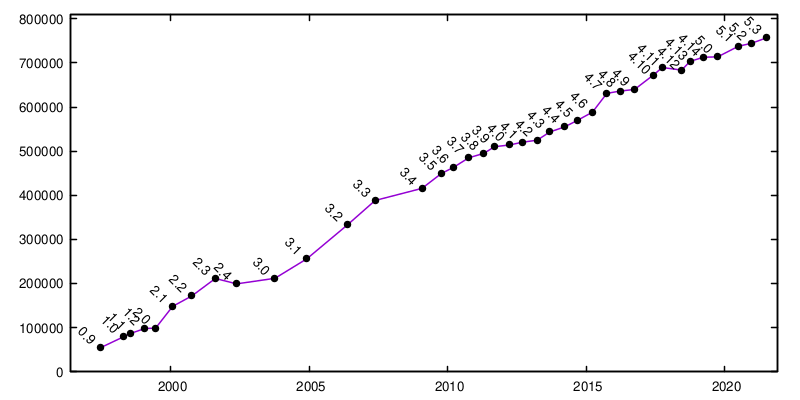
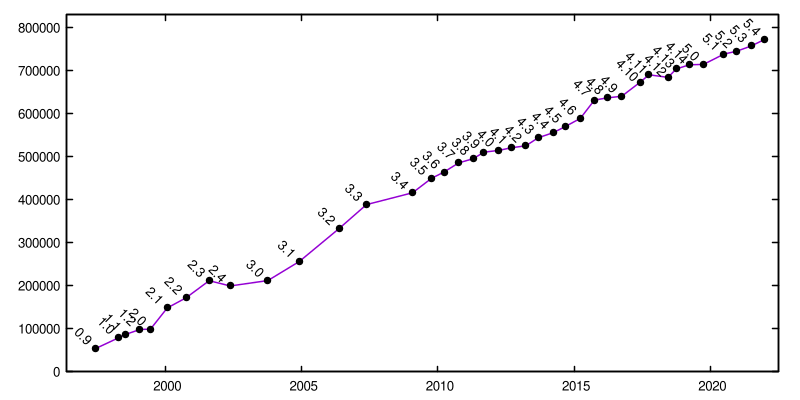
Publish 5.4-beta1

diff --git a/_posts/2021-12-17-cgal54-beta1.md b/_posts/2021-12-17-cgal54-beta1.md
@@ -1,0 +1,107 @@
+---
+layout: post
+title: "CGAL 5.4 beta1 released"
+description: "CGAL 5.4 beta1"
+category:
+tags: ["active-beta-release"]
+---
+{% include JB/setup %}
+
+<i class="glyphicon glyphicon-download"></i>
+<a href="https://github.com/CGAL/cgal/releases/tag/v5.4-beta1">Download CGAL-5.4-beta1</a>
+
+<i class="glyphicon glyphicon-book"></i>
+<a href="https://doc.cgal.org/5.4/Manual/index.html">CGAL-5.4-beta1 documentation</a>
+
+<p>CGAL 5.4 offers the following improvements and new functionality over
+<a href="../../../../2021/07/06/cgal53">CGAL 5.3</a>:</p>
+
+<div class="product-detail-info" markdown="1">
+
+## Changelog
+
+### [General changes](https://doc.cgal.org/5.4/Manual/general_intro.html)
+
+-   Added the cmake target `CGAL::CGAL_Basic_viewer` to ease the compilation of programs using the basic viewer-based function `CGAL::draw()`. This target will define the macro and link with `CGAL_Qt5` target when linked with it.
+
+-   The kernel providing exact constructions and exact predicates ([`CGAL::Exact_predicates_exact_constructions_kernel`](https://doc.cgal.org/5.4/Kernel_23/classCGAL_1_1Exact__predicates__exact__constructions__kernel.html)) is now thread-safe. See changes in `2D and 3D Linear Geometry Kernel` for more details.
+
+### [Shape Regularization](https://doc.cgal.org/5.4/Manual/packages.html#PkgShapeRegularization) (new package)
+
+-   This package enables to regularize a set of segments and open or closed contours in 2D and a set of planes in 3D such that all input objects are rotated and aligned with respect to the user-specified conditions. In addition, it provides a global regularization framework that can be adjusted for the user needs and any type of geometric objects.
+
+### [Weights](https://doc.cgal.org/5.4/Manual/packages.html#PkgWeights) (new package)
+
+-   This package provides a simple and unified interface to different types of weights. In particular, it groups all weights into three category: analytic weights including all basic weights which can be computed analytically for a query point with respect to its local neighbors in 2D and 3D; barycentric weights, including all weights which can be computed for a query point with respect to the vertices of a planar polygon; and weighting regions, including all weights which are used to balance other weights.
+
+### [2D Generalized Barycentric Coordinates](https://doc.cgal.org/5.4/Manual/packages.html#PkgBarycentricCoordinates2) (major changes)
+
+-   **Breaking change**: The headers `Segment_coordinates_2.h` and `Triangle_coordinates_2.h` are renamed to `segment_coordinates_2.h` and `triangle_coordinates_2.h`.
+-   The classes [`Segment_coordinates_2`](https://doc.cgal.org/5.4/Barycentric_coordinates_2/classCGAL_1_1Barycentric__coordinates_1_1Segment__coordinates__2.html) and [`Triangle_coordinates_2`](https://doc.cgal.org/5.4/Barycentric_coordinates_2/classCGAL_1_1Barycentric__coordinates_1_1Triangle__coordinates__2.html) are deprecated. The free functions [`compute_segment_coordinates_2()`](https://doc.cgal.org/5.4/Barycentric_coordinates_2/classCGAL_1_1Barycentric__coordinates_1_1Segment__coordinates__2.html#a134d363dccaeecb5621fa608fac76eaf) and [`compute_triangle_coordinates_2()`](https://doc.cgal.org/5.4/Barycentric_coordinates_2/classCGAL_1_1Barycentric__coordinates_1_1Triangle__coordinates__2.html#a958fee3ad9613d7bfa9d7a976aa3548f) are deprecated as well. Instead, the free functions [`segment_coordinates_2()`](https://doc.cgal.org/5.4/Barycentric_coordinates_2/group__PkgBarycentricCoordinates2RefFunctions.html#gab856ca68d37f58e6cdf74c8aac6f4245) and [`triangle_coordinates_2()`](https://doc.cgal.org/5.4/Barycentric_coordinates_2/group__PkgBarycentricCoordinates2RefFunctions.html#gaa378786f8996dbcefe7923ebb711e4dd) should be used.
+-   The enums [`Query_point_location`](https://doc.cgal.org/5.4/Barycentric_coordinates_2/namespaceCGAL_1_1Barycentric__coordinates.html#aedeeb072a2024053a016afd15e591331) and [`Type_of_algorithm`](https://doc.cgal.org/5.4/Barycentric_coordinates_2/namespaceCGAL_1_1Barycentric__coordinates.html#a5e5682512438422f23d6080edc49c05b) are deprecated. Instead, the enum [`Computation_policy_2`](https://doc.cgal.org/5.4/Barycentric_coordinates_2/namespaceCGAL_1_1Barycentric__coordinates.html#a478bbcec416216b2274ee4b4e97b0e6c) should be used.
+-   The classes [`Wachspress_2`](https://doc.cgal.org/5.4/Barycentric_coordinates_2/classCGAL_1_1Barycentric__coordinates_1_1Wachspress__2.html), [`Discrete_harmonic_2`](https://doc.cgal.org/5.4/Barycentric_coordinates_2/classCGAL_1_1Barycentric__coordinates_1_1Discrete__harmonic__2.html), [`Mean_value_2`](https://doc.cgal.org/5.4/Barycentric_coordinates_2/classCGAL_1_1Barycentric__coordinates_1_1Mean__value__2.html), and [`Generalized_barycentric_coordinates_2`](https://doc.cgal.org/5.4/Barycentric_coordinates_2/classCGAL_1_1Barycentric__coordinates_1_1Generalized__barycentric__coordinates__2.html) are deprecated. As consequence, the concept [`BarycentricCoordinates_2`](https://doc.cgal.org/5.4/Barycentric_coordinates_2/classCGAL_1_1Barycentric__coordinates_1_1BarycentricCoordinates__2.html) is deprecated as well. Instead, the classes [`Wachspress_coordinates_2`](https://doc.cgal.org/5.4/Barycentric_coordinates_2/classCGAL_1_1Barycentric__coordinates_1_1Wachspress__coordinates__2.html), [`Discrete_harmonic_coordinates_2`](https://doc.cgal.org/5.4/Barycentric_coordinates_2/classCGAL_1_1Barycentric__coordinates_1_1Discrete__harmonic__coordinates__2.html), and [`Mean_value_coordinates_2`](https://doc.cgal.org/5.4/Barycentric_coordinates_2/classCGAL_1_1Barycentric__coordinates_1_1Mean__value__coordinates__2.html) should be used.
+-   Added the class [`Harmonic_coordinates_2`](https://doc.cgal.org/5.4/Barycentric_coordinates_2/classCGAL_1_1Barycentric__coordinates_1_1Harmonic__coordinates__2.html) to compute approximate harmonic coordinates in 2D. These coordinates satisfy all properties of barycentric coordinates inside any simple polygon.
+-   Added a new concept [`DiscretizedDomain_2`](https://doc.cgal.org/5.4/Barycentric_coordinates_2/classCGAL_1_1Barycentric__coordinates_1_1DiscretizedDomain__2.html) and a model of this concept called [`Delaunay_domain_2`](https://doc.cgal.org/5.4/Barycentric_coordinates_2/classCGAL_1_1Barycentric__coordinates_1_1Delaunay__domain__2.html), which is based on the [Mesh 2](https://doc.cgal.org/5.4/Manual/packages.html#PkgMesh2) package. A model of this concept is required to use [`Harmonic_coordinates_2`](https://doc.cgal.org/5.4/Barycentric_coordinates_2/classCGAL_1_1Barycentric__coordinates_1_1Harmonic__coordinates__2.html).
+-   Added free functions to compute Wachspress, discrete harmonic, and mean value coordinates.
+-   All free functions and classes are now using ranges and property maps.
+
+### [2D and 3D Linear Geometry Kernel](https://doc.cgal.org/5.4/Manual/packages.html#PkgKernel23)
+
+-   Most operations on [`CGAL::Exact_predicates_exact_constructions_kernel`](https://doc.cgal.org/5.4/Kernel_23/classCGAL_1_1Exact__predicates__exact__constructions__kernel.html) objects are now thread-safe if [`CGAL::Exact_rational`](https://doc.cgal.org/5.4/Number_types/group__nt__cgal.html#ga0849ff44771b19582218ebdfa5614f64) is [`mpq_class`](https://doc.cgal.org/5.3/Number_types/classmpq__class.html) (from `GMPXX`), `boost::multiprecision::mpq_rational` or [`CGAL::Quotient<CGAL::MP_Float>`](https://doc.cgal.org/5.3/Number_types/classCGAL_1_1MP__Float.html). The objects are not atomic though, so the usual restrictions on avoiding race conditions apply. For users who do not use threads, this can be disabled with `CGAL_HAS_NO_THREADS`.
+
+-   Added documentation for the class [`Projection_traits_3`](https://doc.cgal.org/5.4/Kernel_23/classCGAL_1_1Projection__traits__3.html), which enables the use of 2D algorithms on the projections of 3D data onto an arbitrary plane.
+
+-   Added `construct_centroid_2_object()` and `compute_determinant_2_object()` in [`Projection_traits_xy_3`](https://doc.cgal.org/5.4/Kernel_23/classCGAL_1_1Projection__traits__xy__3.html), [`Projection_traits_xz_3`](https://doc.cgal.org/5.4/Kernel_23/classCGAL_1_1Projection__traits__xz__3.html), and [`Projection_traits_yz_3`](https://doc.cgal.org/5.4/Kernel_23/classCGAL_1_1Projection__traits__yz__3.html) classes.
+
+-   Added the functor [`NonZeroCoordinateIndex_3`](https://doc.cgal.org/5.4/Kernel_23/classKernel_1_1NonZeroCoordinateIndex__3.html) to the concept [`Kernel`](https://doc.cgal.org/5.4/Kernel_23/classKernel.html) with `int operator()(Vector_3)` which returns the index of any coordinate of the vector different from zero, or `-1`.
+
+### [dD Kernel](https://doc.cgal.org/5.4/Manual/packages.html#PkgKernelD)
+
+-   Most operations on [`Epeck_d`](https://doc.cgal.org/5.4/Kernel_d/structCGAL_1_1Epeck__d.html) objects are now thread-safe, see 2D and 3D Linear Geometry Kernel for details.
+
+### [2D Arrangements](https://doc.cgal.org/5.4/Manual/packages.html#PkgArrangementOnSurface2)
+
+-   **Breaking Change:** The traits function objects `Compare_x_at_limit_2` and `Compare_x_near_limit_2` are renamed to `Compare_x_on_boundary_2` and `Compare_x_near_boundary_2`, respectively.
+
+-   A [new hierarchy of traits concepts](https://doc.cgal.org/5.4/Arrangement_on_surface_2/group__PkgArrangementOnSurface2Concepts.html) has been introduced. It captures all the valid combinations of boundary conditions for the 4 boundary sides of the parameter space. The 4 boundaries are Bottom, Top, Left, and Right. Each boundary side can be either contracted, identified, close, open, or oblivious. Not all possible combinations are valid. If one side is identified then the other must be as well. Two adjacent sides cannot be contracted.
+
+-   A new geometric traits, [`Arr_geodesic_arc_on_sphere_traits_2`](https://doc.cgal.org/5.4/Arrangement_on_surface_2/classCGAL_1_1Arr__geodesic__arc__on__sphere__traits__2.html) has been introduced. It handles arcs of great circles embedded on the unit sphere.
+
+### [2D Regularized Boolean Set-Operations](https://doc.cgal.org/5.4/Manual/packages.html#PkgBooleanSetOperations2)
+
+-   Added an extra parameter (`UsePolylines`) to all free functions ( [`complement()`](https://doc.cgal.org/5.4/Boolean_set_operations_2/group__boolean__complement.html), [`do_intersect()`](https://doc.cgal.org/5.4/Boolean_set_operations_2/group__boolean__do__intersect.html), [`intersection()`](https://doc.cgal.org/5.4/Boolean_set_operations_2/group__boolean__intersection.html), [`join()`](https://doc.cgal.org/5.4/Boolean_set_operations_2/group__boolean__join.html), [`difference()`](https://doc.cgal.org/5.4/Boolean_set_operations_2/group__boolean__difference.html), [`symmetric_difference()`](https://doc.cgal.org/5.4/Boolean_set_operations_2/group__boolean__symmetric__difference.html), and [`oriented_side`](https://doc.cgal.org/5.4/Boolean_set_operations_2/group__boolean__oriented__side.html)) to control whether to use `Arr_polyline_traits_2` as default traits. It is the new default as it provides better performances in general.
+
+### [3D Mesh Generation](https://doc.cgal.org/5.4/Manual/packages.html#PkgMesh3)
+
+-   Added support of weighted images for an improved quality of meshes generated from labeled images, along with a function [`CGAL::Mesh_3::generate_label_weights()`](https://doc.cgal.org/5.4/Mesh_3/namespaceCGAL_1_1Mesh__3.html#ae5914bf77180ff8948c08046154ee727) to generate the weights.
+
+### [Polygon Mesh Processing](https://doc.cgal.org/5.4/Manual/packages.html#PkgPolygonMeshProcessing)
+
+-   Added the function [`CGAL::Polygon_mesh_processing::match_faces()`](https://doc.cgal.org/5.4/Polygon_mesh_processing/group__measure__grp.html#ga10f7cd81645bafe936ac5eb4e58e67ef), which, given two polygon meshes, identifies their common faces as well as faces present in only either of them.
+
+-   Added the functions: [`CGAL::Polygon_mesh_processing::bounded_error_Hausdorff_distance()`](https://doc.cgal.org/5.4/Polygon_mesh_processing/group__PMP__distance__grp.html#ga6d4ecea831c33ac10eec42b5021fc183) that computes an estimate of the one-sided Hausdorff distance between two triangle meshes which is bounded by a user-specified error bound; [`CGAL::Polygon_mesh_processing::bounded_error_symmetric_Hausdorff_distance()`](https://doc.cgal.org/5.4/Polygon_mesh_processing/group__PMP__distance__grp.html#ga9a7a682b5d9523135c8502e72117dffd) that computes an estimate of the symmetric Hausdorff distance bounded by a user-specified error bound; and [`CGAL::Polygon_mesh_processing::is_Hausdorff_distance_larger()`](https://doc.cgal.org/5.4/Polygon_mesh_processing/group__PMP__distance__grp.html#gab19e751107025a443e86baa9763aebf3) that returns `true` if the bounded-error Hausdorff distance between two meshes is larger than the user-specified max distance.
+
+-   Added the functions [`CGAL::Polygon_mesh_processing::squared_edge_length()`](https://doc.cgal.org/5.4/Polygon_mesh_processing/group__measure__grp.html#ga30fa03722cd7aa599f6dcb115f54fec5) and [`CGAL::Polygon_mesh_processing::squared_face_area()`](https://doc.cgal.org/5.4/Polygon_mesh_processing/group__measure__grp.html#ga6eda3738815fd678df225f79ccfc3e03), which, compared to [`CGAL::Polygon_mesh_processing::edge_length()`](https://doc.cgal.org/5.4/Polygon_mesh_processing/group__measure__grp.html#gae1674775d9fecada7f25710f425cff3a) and [`CGAL::Polygon_mesh_processing::face_area()`](https://doc.cgal.org/5.4/Polygon_mesh_processing/group__measure__grp.html#ga6a1d7a825c09490b1e6613295343482b), enable avoiding square-root operations.
+
+-   Added more functions in the [visitor of the corefinement based methods](https://doc.cgal.org/5.4/Polygon_mesh_processing/classPMPCorefinementVisitor.html) to track all vertex creations.
+
+-   Added an option to [`CGAL::Polygon_mesh_processing::self_intersections()`](https://doc.cgal.org/5.4/Polygon_mesh_processing/group__PMP__intersection__grp.html#gaf19c80ec12cbff7ebe9e69453f1d40b8) to report only a limited number of intersections (`maximum_number()`).
+
+### [The Heat Method](https://doc.cgal.org/5.4/Manual/packages.html#PkgHeatMethod)
+
+-   **Breaking change**: Added the functor `Compute_squared_length_3` providing `operator(const Vector_3& v)`, which computes the squared length of `v`, to the [`HeatMethodTraits_3`](https://doc.cgal.org/5.4/Heat_method_3/classHeatMethodTraits__3.html) concept.
+
+### [Point Set Processing](https://doc.cgal.org/5.4/Manual/packages.html#PkgPointSetProcessing3)
+
+-   Added support for [`libpointmatcher::GenericDescriptorOutlierFilter`](https://github.com/ethz-asl/libpointmatcher) that enables providing a map from a point to a weight associated with this point.
+
+### [Shape Detection](https://doc.cgal.org/5.4/Manual/packages.html#PkgShapeDetection)
+
+-   Added new shapes to the Region Growing algorithm on a point set: circles in 2D, spheres in 3D, and cylinders in 3D.
+
+### [CGAL and Solvers](https://doc.cgal.org/5.4/Manual/packages.html#PkgSolverInterface)
+
+-   Added support for the [OSQP solver](https://osqp.org/). This solver enables to efficiently compute the convex Quadratic Programming (QP) problems arising in the context of several packages.
+
+
+</div>
